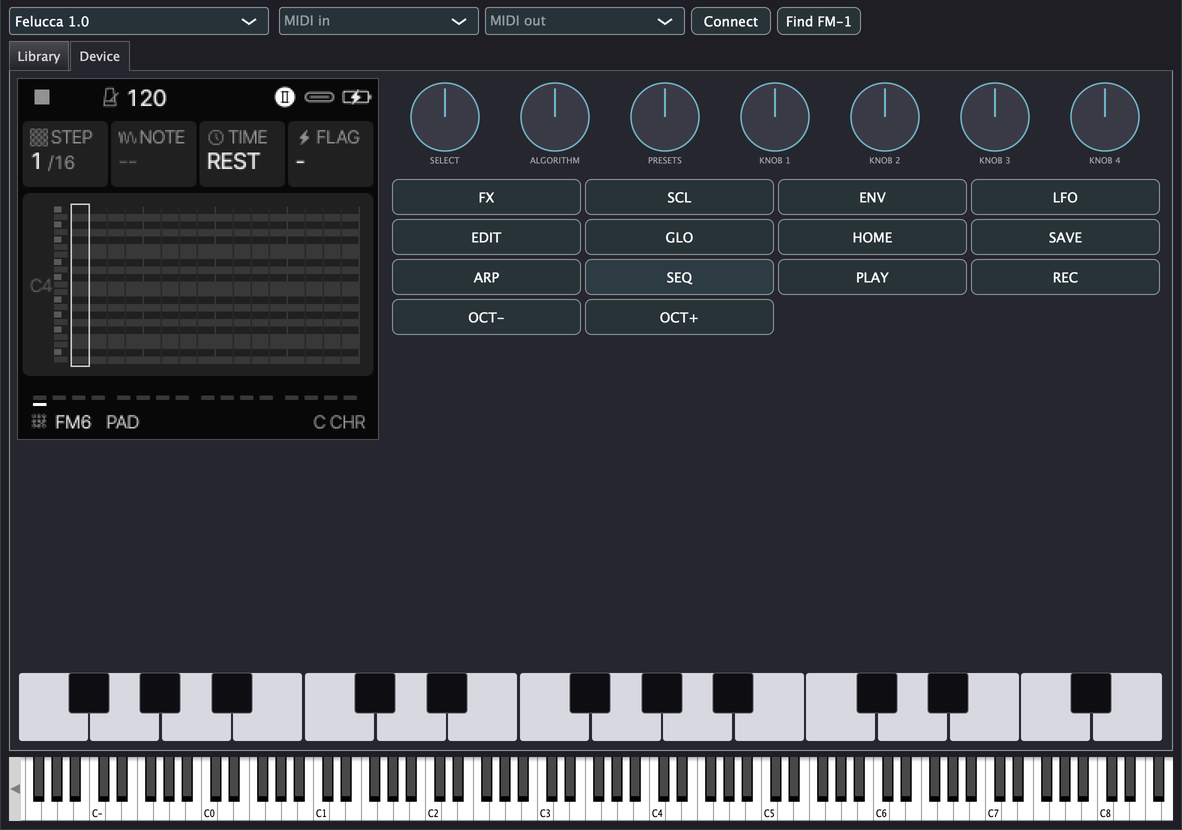
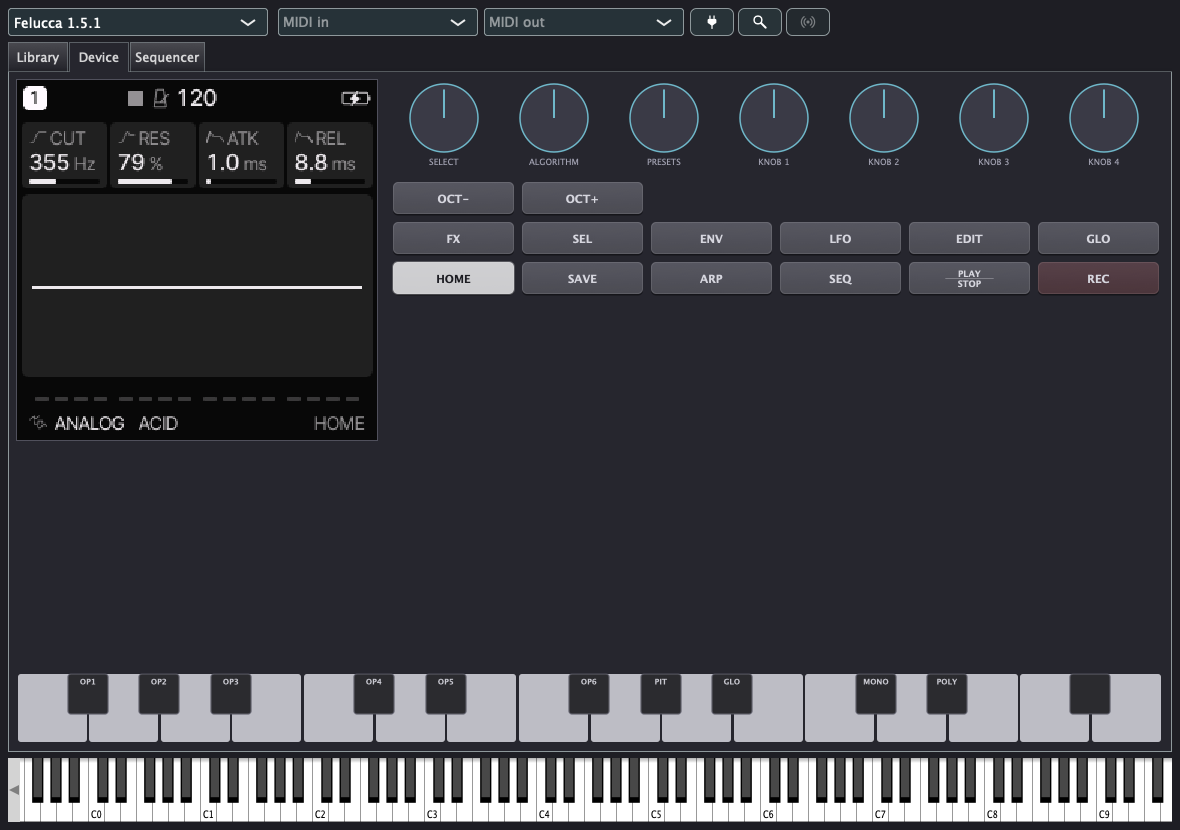
README: screenshots from 0.9.1
The FM-1+VA library beside a preset's FM page and Felucca 1.5.1's
Library and Device tabs, rendered from the current build with a copy of
a real library (plugin_test snapshot), and Felucca's Device and Library
tabs at phone size side by side (renders, not the iPhone simulator).

diff --git a/README.md b/README.md
@@ -27,11 +27,11 @@ Felucca: its user presets and projects beside a part's sound, and its own front 
 
 ![Felucca's Library tab: the user presets beside the Sound page](docs/images/felucca-library.png)
 
-![Felucca's Device tab: its screen on the sequencer page, its knobs, buttons and keys](docs/images/felucca-device.png)
+![Felucca's Device tab: its screen on the HOME page, its knobs, buttons and keys](docs/images/felucca-device.png)
 
-On an iPhone (the iOS app builds from source):
+At phone size (the iOS app builds from source):
 
-<img src="docs/images/phone-felucca.png" alt="Felucca's Device and Library tabs on an iPhone" width="414">
+![Felucca's Device and Library tabs at phone size](docs/images/phone-felucca.png)
 
 ## What you need
 
